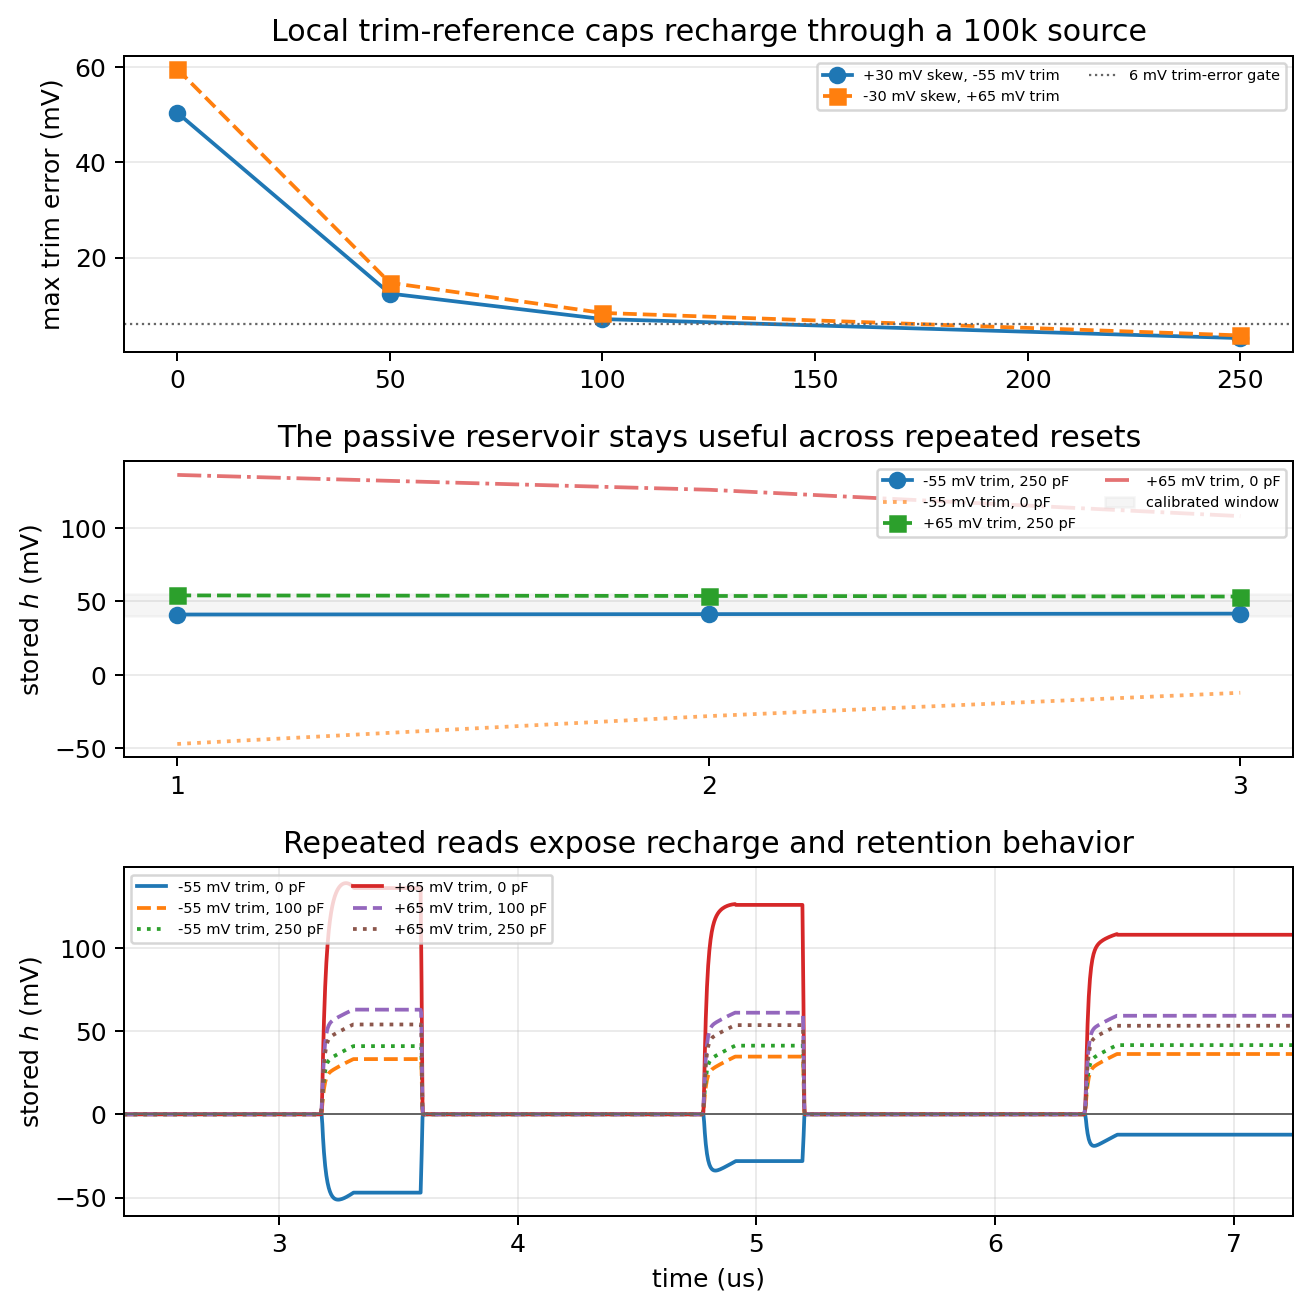
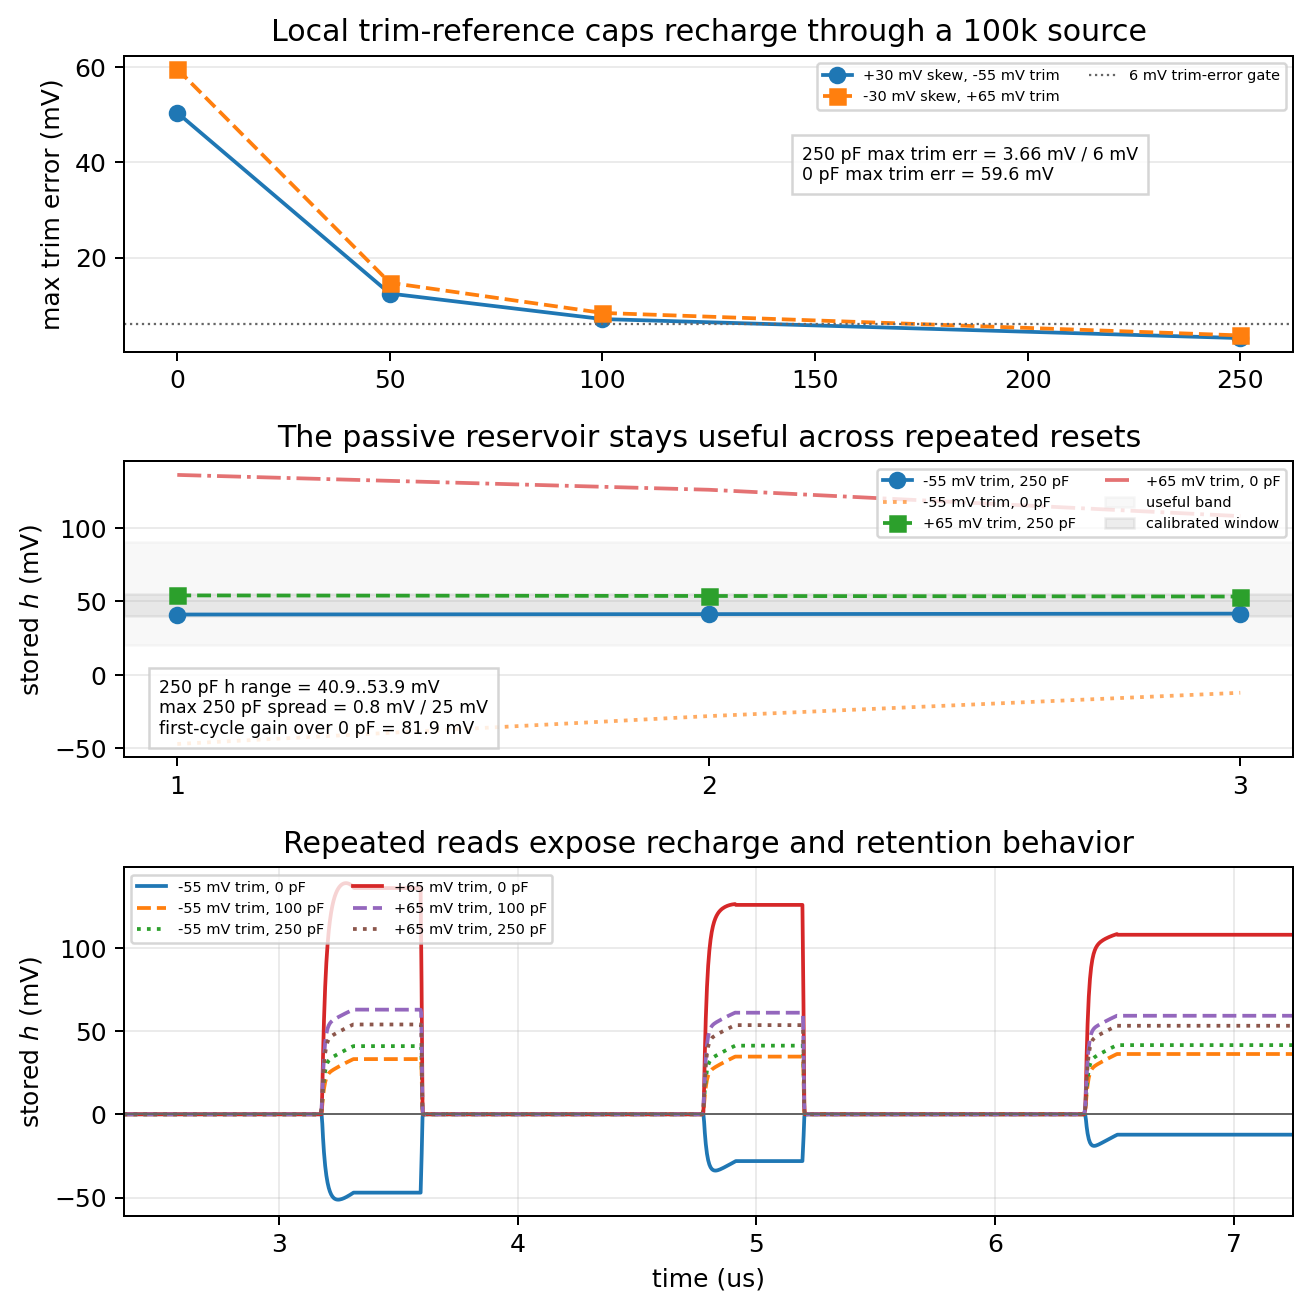
Annotate reset reference recharge margins

Changed region(s): [[0.6102, 0.0917, 0.8848, 0.1528], [0.122, 0.5195, 0.3966, 0.5806], [0.8848, 0.3667, 0.9764, 0.4278]]

diff --git a/spice/run_mos_cell_characterization.py b/spice/run_mos_cell_characterization.py
@@ -14872,6 +14872,17 @@ quit
     shift_refz_recharge_axes[0].set_ylabel("max trim error (mV)")
     shift_refz_recharge_axes[0].set_title("Local trim-reference caps recharge through a 100k source")
     shift_refz_recharge_axes[0].grid(True, axis="y", alpha=0.25)
+    shift_refz_recharge_axes[0].text(
+        0.58,
+        0.58,
+        "250 pF max trim err = "
+        f"{1e3 * np.max(shift_refz_recharge_max_trim_error[:, -1]):.2f} mV / 6 mV\n"
+        "0 pF max trim err = "
+        f"{1e3 * np.max(shift_refz_recharge_max_trim_error[:, 0]):.1f} mV",
+        transform=shift_refz_recharge_axes[0].transAxes,
+        fontsize="x-small",
+        bbox={"facecolor": "white", "alpha": 0.82, "edgecolor": "0.8"},
+    )
     shift_refz_recharge_axes[0].legend(loc="upper right", ncol=2, fontsize="xx-small")
     cycle_x = np.arange(1, len(shift_reuse_h_times) + 1)
     for branch_idx, (_branch_name, branch_label, _nfp, _nfm, _trim) in enumerate(shift_reset_branch_specs):
@@ -14888,11 +14899,27 @@ quit
             alpha=0.65,
             label=f"{branch_label.split(', ')[1]}, 0 pF",
         )
-    shift_refz_recharge_axes[1].axhspan(40, 55, color="0.7", alpha=0.12, label="calibrated window")
+    shift_refz_recharge_axes[1].axhspan(20, 90, color="0.75", alpha=0.10, label="useful band")
+    shift_refz_recharge_axes[1].axhspan(40, 55, color="0.45", alpha=0.12, label="calibrated window")
     shift_refz_recharge_axes[1].set_xticks(cycle_x)
     shift_refz_recharge_axes[1].set_ylabel("stored $h$ (mV)")
     shift_refz_recharge_axes[1].set_title("The passive reservoir stays useful across repeated resets")
     shift_refz_recharge_axes[1].grid(True, axis="y", alpha=0.25)
+    shift_refz_recharge_250p_h = shift_refz_recharge_h_samples[:, -1, :]
+    shift_refz_recharge_0p_h = shift_refz_recharge_h_samples[:, 0, :]
+    shift_refz_recharge_axes[1].text(
+        0.03,
+        0.08,
+        "250 pF h range = "
+        f"{1e3 * np.min(shift_refz_recharge_250p_h):.1f}..{1e3 * np.max(shift_refz_recharge_250p_h):.1f} mV\n"
+        "max 250 pF spread = "
+        f"{1e3 * np.max(np.ptp(shift_refz_recharge_250p_h, axis=1)):.1f} mV / 25 mV\n"
+        "first-cycle gain over 0 pF = "
+        f"{1e3 * np.min(np.abs(shift_refz_recharge_250p_h[:, 0] - shift_refz_recharge_0p_h[:, 0])):.1f} mV",
+        transform=shift_refz_recharge_axes[1].transAxes,
+        fontsize="x-small",
+        bbox={"facecolor": "white", "alpha": 0.82, "edgecolor": "0.8"},
+    )
     shift_refz_recharge_axes[1].legend(loc="upper right", ncol=2, fontsize="xx-small")
     for branch_label, cap_label, rct, store in shift_refz_recharge_traces:
         linestyle = "-" if cap_label == "0 pF" else "--" if cap_label == "100 pF" else ":"

diff --git a/engineering_log.md b/engineering_log.md
@@ -2,6 +2,17 @@
 
 ## 2026-05-25
 
+- Clarified the shifted-gate reset-reference recharge plot.  The ngspice deck
+  models a \(100\)k reset-trim source feeding local reservoir capacitors and
+  already asserted that \(250\) pF keeps repeated trim error below \(6\) mV,
+  all repeated stored activations inside the useful band, cycle spread below
+  \(25\) mV, and first-cycle activation more than \(60\) mV better than no
+  local reservoir.  The regenerated
+  `mos_hidden_writer_restored_gate_hybrid_update_forward_guard_forward_pair_96u_shifted_gate_reset_ref_recharge_ngspice`
+  plot now labels the measured evidence directly: \(250\) pF max trim error
+  \(3.66\) mV, no-reservoir max trim error \(59.6\) mV, \(250\) pF stored
+  activation range \(40.9\)--\(53.9\) mV, max cycle spread \(0.8\) mV, and
+  first-cycle gain over no reservoir \(81.9\) mV.
 - Clarified the calibrated shifted-gate trimmed-reuse plot.  The ngspice deck
   already asserted that each physical split reset re-establishes the
   \(-35\) mV trim within \(3\) mV, preserves common mode within \(5\) mV,
